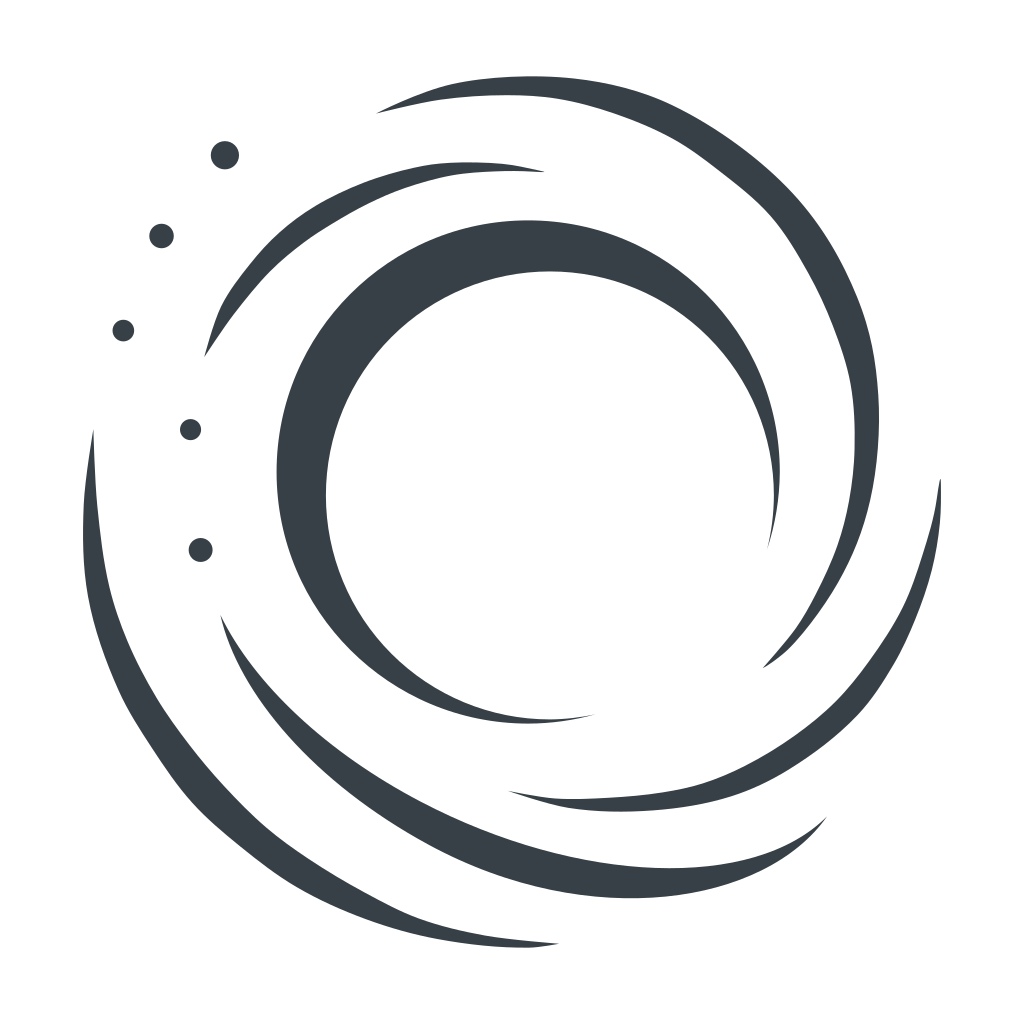
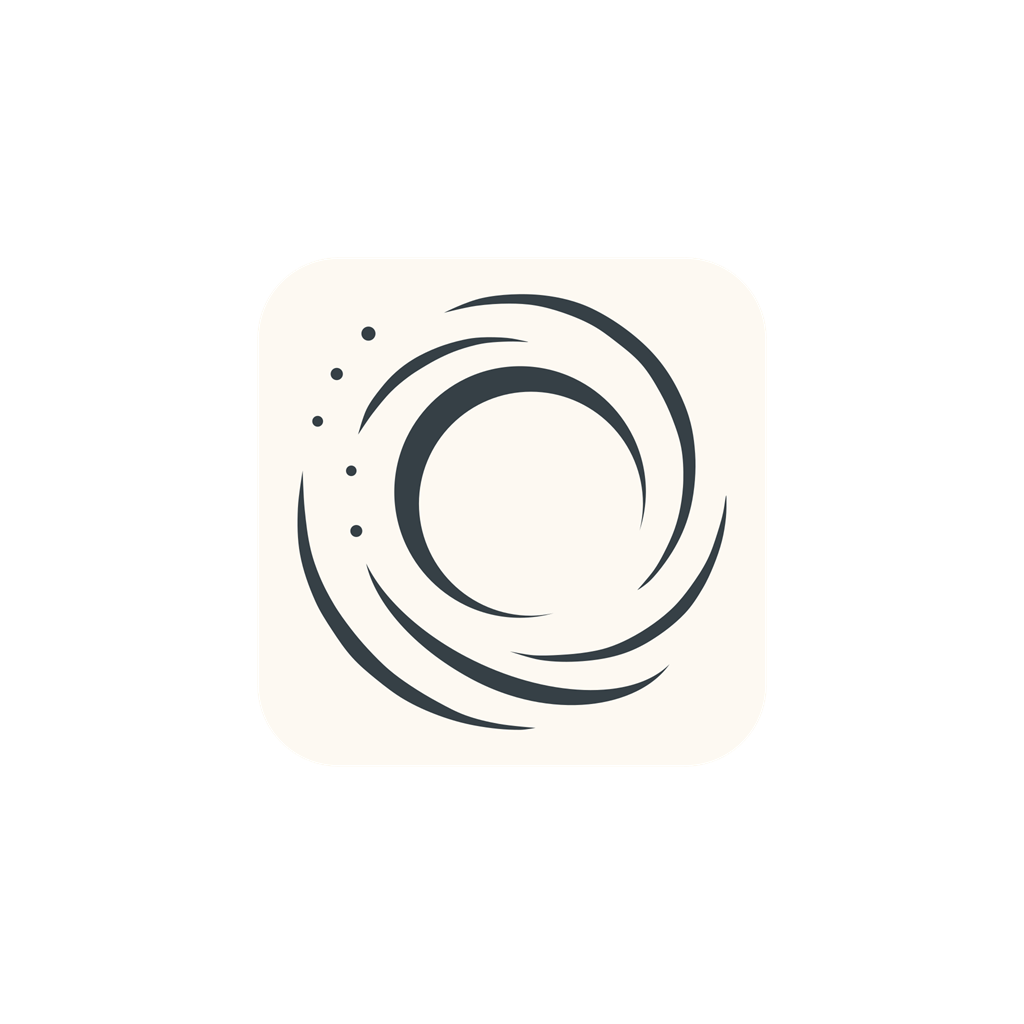
feat(android): fix build configuration and app assets
fix Android build issues
update splash screens and OS app icons
adjust loading screen messages
add EAS configuration for online cloud builds

diff --git a/app/index.tsx b/app/index.tsx
@@ -1,21 +1,19 @@
-import React, { useState, useEffect } from "react";
+import * as NavigationBar from "expo-navigation-bar";
+import { StatusBar } from "expo-status-bar";
+import React, { useEffect } from "react";
 import { AppState, BackHandler, Platform } from "react-native";
 import { SafeAreaView } from "react-native-safe-area-context";
-import { StatusBar } from "expo-status-bar";
-import * as NavigationBar from "expo-navigation-bar";
-import { useAppState } from "../src/hooks/useAppState";
 import { colors } from "../src/constants/colors";
-import { styles } from "../src/styles/app.styles";
-import { HomeScreen } from "../src/screens/HomeScreen";
-import { LoadingScreen } from "../src/screens/LoadingScreen";
+import { useAppState } from "../src/hooks/useAppState";
+import { useLocale } from "../src/i18n";
+import { CompletedScreen } from "../src/screens/CompletedScreen";
 import { ErrorScreen } from "../src/screens/ErrorScreen";
 import { ExerciseScreen } from "../src/screens/ExerciseScreen";
-import { CompletedScreen } from "../src/screens/CompletedScreen";
-import { SplashScreen } from "../src/screens/SplashScreen";
-import { useLocale } from "../src/i18n";
+import { HomeScreen } from "../src/screens/HomeScreen";
+import { LoadingScreen } from "../src/screens/LoadingScreen";
+import { styles } from "../src/styles/app.styles";
 
 export default function App() {
-  const [showSplash, setShowSplash] = useState(true);
   const {
     screen,
     exercise,
@@ -69,17 +67,6 @@ export default function App() {
 
     return () => backHandler.remove();
   }, [screen, handleGoHome]);
-
-  if (showSplash) {
-    return (
-      <SafeAreaView style={styles.safeArea}>
-        {/* `style="dark"` = dark icons/text on the status bar, readable
-            against MINDDRIFT's light cream background. */}
-        <StatusBar style="dark" backgroundColor={colors.background} />
-        <SplashScreen onFinish={() => setShowSplash(false)} />
-      </SafeAreaView>
-    );
-  }
 
   const renderScreen = () => {
     switch (screen) {

diff --git a/src/constants/api.ts b/src/constants/api.ts
@@ -6,16 +6,27 @@
 //
 // Configure it in a local `.env` file at the project root, for example:
 //
-//   EXPO_PUBLIC_API_URL=http://localhost:8080
-//   # or, when testing on a physical device on the same Wi-Fi:
+//   # Deployed (Cloud Run) backend — used as the default fallback below:
+//   EXPO_PUBLIC_API_URL=https://minddrift-backend-876469026451.europe-west1.run.app
+//   # Local backend on the same machine (simulator / web):
+//   # EXPO_PUBLIC_API_URL=http://localhost:8080
+//   # Or, when testing on a physical device on the same Wi-Fi:
 //   # EXPO_PUBLIC_API_URL=http://192.168.1.42:8080
 //
 // Only `EXPO_PUBLIC_*` variables are exposed to the app at runtime, so never
 // put real secrets in here — this value ships with the bundle.
-const FALLBACK_API_BASE_URL = "http://localhost:8080";
+const FALLBACK_API_BASE_URL =
+  "https://minddrift-backend-876469026451.europe-west1.run.app";
 
-export const API_BASE_URL =
+// Strip a trailing slash so callers can safely do `${API_BASE_URL}${endpoint}`
+// where endpoints start with a leading "/", without producing "//".
+const stripTrailingSlash = (value: string): string =>
+  value.endsWith("/") ? value.slice(0, -1) : value;
+
+const RAW_API_BASE_URL =
   process.env.EXPO_PUBLIC_API_URL ?? FALLBACK_API_BASE_URL;
+
+export const API_BASE_URL = stripTrailingSlash(RAW_API_BASE_URL);
 
 export const API_ENDPOINTS = {
   exercise: "/api/exercise",

diff --git a/src/screens/LoadingScreen.tsx b/src/screens/LoadingScreen.tsx
@@ -1,13 +1,15 @@
 import React from "react";
-import { View, Text, ActivityIndicator } from "react-native";
+import { ActivityIndicator, Text, View } from "react-native";
 import { colors } from "../constants/colors";
+import { useTranslation } from "../i18n";
 import { styles } from "../styles/app.styles";
 
 export function LoadingScreen() {
+  const { t } = useTranslation();
   return (
     <View style={styles.centeredContainer}>
       <ActivityIndicator size="large" color={colors.primary} />
-      <Text style={styles.loadingText}>Preparing your reset…</Text>
+      <Text style={styles.loadingText}>{t("loading.preparing")}</Text>
     </View>
   );
 }

diff --git a/src/i18n/de.ts b/src/i18n/de.ts
@@ -21,6 +21,9 @@ export const de: Translations = {
     helped: "HAT GEHOLFEN",
     notToday: "NICHT HEUTE",
   },
+  loading: {
+    preparing: "MACH DICH FÜR DEINE ÜBUNG BEREIT",
+  },
   completed: {
     title: "ERLEDIGT",
     resetSaved: "RESET\nGESPEICHERT",

diff --git a/src/i18n/en.ts b/src/i18n/en.ts
@@ -19,6 +19,9 @@ export const en = {
     helped: "HELPED",
     notToday: "NOT TODAY",
   },
+  loading: {
+    preparing: "GET READY FOR YOUR EXERCISE",
+  },
   completed: {
     title: "COMPLETED",
     resetSaved: "RESET\nSAVED",
